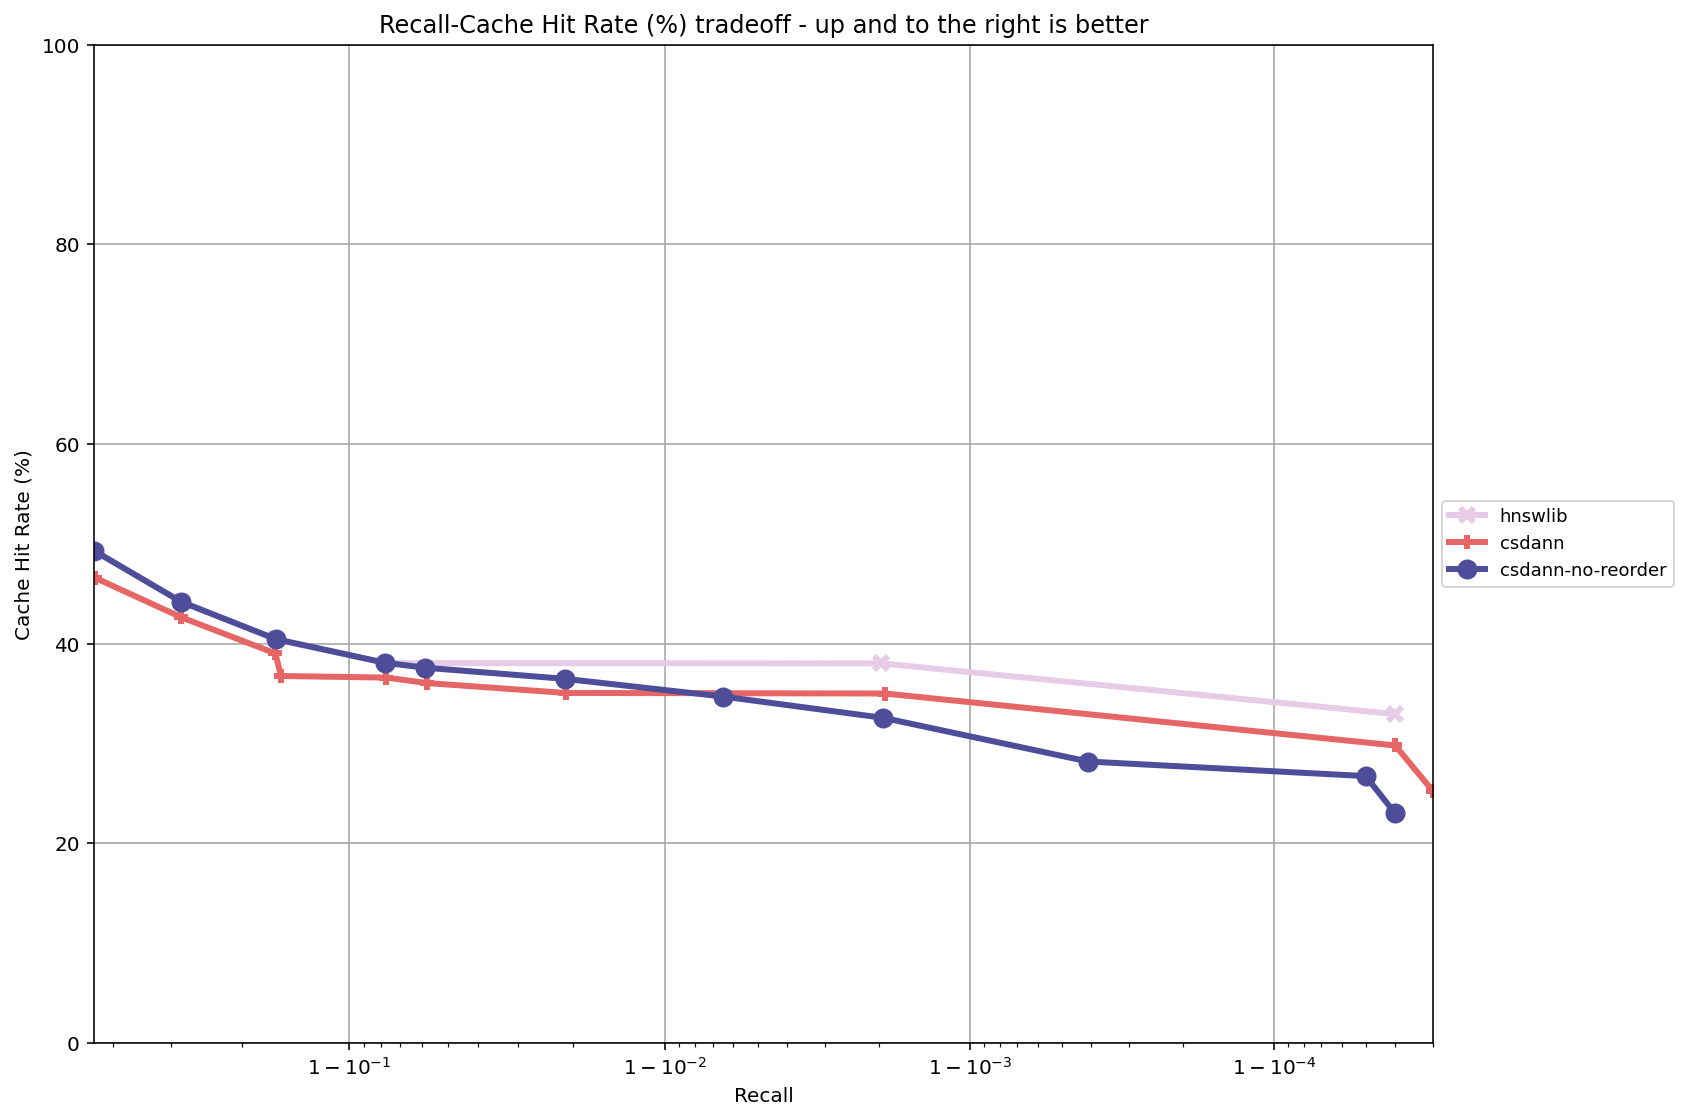
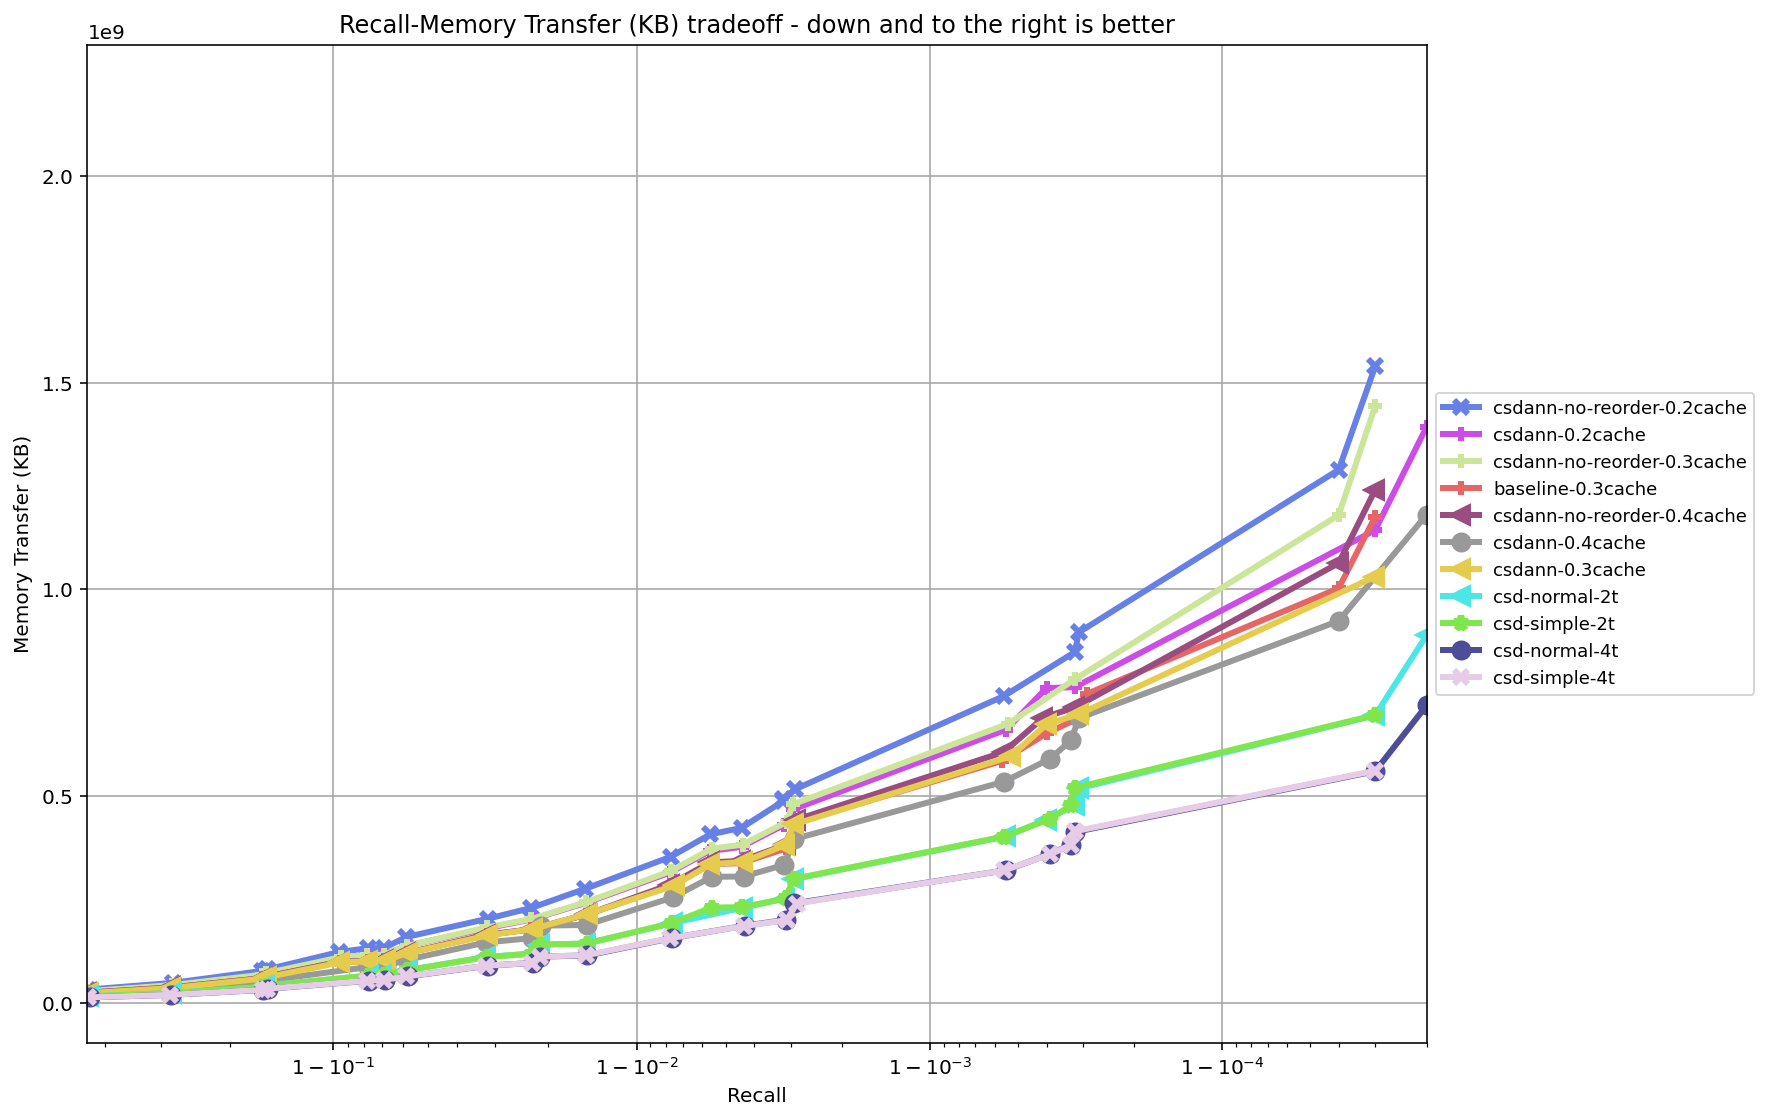
fix rename algo

diff --git a/rename_algorithm_in_hdf5.py b/rename_algorithm_in_hdf5.py
@@ -3,26 +3,29 @@
 Script to rename algorithm names stored in HDF5 result files.
 
 This script traverses all HDF5 files in a specified directory and modifies
-the 'algo' attribute stored in each file. It can also optionally rename
-the directory structure to match the new algorithm name.
+the 'algo' attribute stored in each file to a new name.
 
 Usage:
-    python rename_algorithm_in_hdf5.py --dir /path/to/results/dataset --old-name hnswlib --new-name hnsw_baseline [--rename-dirs]
+    # Rename all HDF5 files to a single name:
+    python rename_algorithm_in_hdf5.py --dir /path/to/results/dataset --new-name hnsw_baseline
 
-Example:
+    # Rename each subdirectory's files to its subdirectory name:
+    python rename_algorithm_in_hdf5.py --dir /path/to/results/dataset --use-dir-name
+
+Examples:
     python rename_algorithm_in_hdf5.py \
         --dir results/mnist-784-euclidean/10 \
-        --old-name hnswlib \
-        --new-name hnsw_baseline \
-        --rename-dirs
+        --new-name hnsw_baseline
+
+    python rename_algorithm_in_hdf5.py \
+        --dir results/sift-128-euclidean/10 \
+        --use-dir-name
 """
 
 import argparse
 import h5py
 import os
-import shutil
-from pathlib import Path
-from typing import Tuple, List
+from typing import List
 
 
 def find_hdf5_files(directory: str) -> List[str]:
@@ -40,6 +43,28 @@ def find_hdf5_files(directory: str) -> List[str]:
             if file.endswith('.hdf5'):
                 hdf5_files.append(os.path.join(root, file))
     return hdf5_files
+
+
+def find_hdf5_files_by_subdir(directory: str) -> dict:
+    """Find HDF5 files grouped by immediate subdirectory.
+
+    Args:
+        directory: Root directory containing subdirectories with HDF5 files
+
+    Returns:
+        Dict mapping subdirectory name to list of HDF5 file paths
+    """
+    result = {}
+    for item in os.listdir(directory):
+        item_path = os.path.join(directory, item)
+        if os.path.isdir(item_path):
+            hdf5_files = []
+            for file in os.listdir(item_path):
+                if file.endswith('.hdf5'):
+                    hdf5_files.append(os.path.join(item_path, file))
+            if hdf5_files:
+                result[item] = hdf5_files
+    return result
 
 
 def get_current_algo_name(hdf5_file: str) -> str:
@@ -80,67 +105,21 @@ def update_algo_name(hdf5_file: str, new_name: str) -> bool:
         return False
 
 
-def rename_directory(old_path: str, new_path: str) -> bool:
-    """Rename a directory.
-
-    Args:
-        old_path: Current directory path
-        new_path: New directory path
-
-    Returns:
-        True if successful, False otherwise
-    """
-    try:
-        # Create parent directory if it doesn't exist
-        os.makedirs(os.path.dirname(new_path), exist_ok=True)
-
-        # Move the directory
-        shutil.move(old_path, new_path)
-        print(f"  Renamed directory: {old_path} -> {new_path}")
-        return True
-    except Exception as e:
-        print(f"  Error renaming directory {old_path}: {e}")
-        return False
-
-
-def verify_changes(hdf5_files: List[str], new_name: str) -> Tuple[int, int]:
-    """Verify that all files were updated correctly.
-
-    Args:
-        hdf5_files: List of HDF5 file paths
-        new_name: Expected algorithm name
-
-    Returns:
-        Tuple of (success_count, failure_count)
-    """
-    success = 0
-    failure = 0
-
-    for hdf5_file in hdf5_files:
-        current = get_current_algo_name(hdf5_file)
-        if current == new_name:
-            success += 1
-        else:
-            print(f"  WARNING: {hdf5_file} still has algo={current}")
-            failure += 1
-
-    return success, failure
-
-
 def main():
     parser = argparse.ArgumentParser(
         description='Rename algorithm names in HDF5 result files',
         formatter_class=argparse.RawDescriptionHelpFormatter,
         epilog="""
 Examples:
-  # Update algorithm name in HDF5 files without renaming directories
-  python rename_algorithm_in_hdf5.py --dir results/mnist-784-euclidean/10 --old-name hnswlib --new-name hnsw_baseline
+  # Update all HDF5 files to a single algorithm name
+  python rename_algorithm_in_hdf5.py --dir results/mnist-784-euclidean/10 --new-name hnsw_baseline
 
-  # Update algorithm name and rename directories to match
-  python rename_algorithm_in_hdf5.py --dir results/mnist-784-euclidean/10 --old-name hnswlib --new-name hnsw_baseline --rename-dirs
+  # Rename each subdirectory's files to use the subdirectory name
+  python rename_algorithm_in_hdf5.py --dir results/sift-128-euclidean/10 --use-dir-name
 
   # Dry run to see what would be changed
-  python rename_algorithm_in_hdf5.py --dir results/mnist-784-euclidean/10 --old-name hnswlib --new-name hnsw_baseline --dry-run
+  python rename_algorithm_in_hdf5.py --dir results/mnist-784-euclidean/10 --new-name hnsw_baseline --dry-run
+  python rename_algorithm_in_hdf5.py --dir results/sift-128-euclidean/10 --use-dir-name --dry-run
         """
     )
 
@@ -151,21 +130,14 @@ Examples:
     )
 
     parser.add_argument(
-        '--old-name',
-        required=True,
-        help='Current algorithm name to replace (e.g., hnswlib)'
-    )
-
-    parser.add_argument(
         '--new-name',
-        required=True,
-        help='New algorithm name (e.g., hnsw_baseline)'
+        help='New algorithm name (e.g., hnsw_baseline). Required unless --use-dir-name is specified.'
     )
 
     parser.add_argument(
-        '--rename-dirs',
+        '--use-dir-name',
         action='store_true',
-        help='Also rename algorithm directories to match the new name'
+        help='Use the subdirectory name as the new algorithm name for each file'
     )
 
     parser.add_argument(
@@ -174,120 +146,98 @@ Examples:
         help='Show what would be changed without making actual changes'
     )
 
-    parser.add_argument(
-        '--verify',
-        action='store_true',
-        help='Verify that all changes were applied correctly'
-    )
-
     args = parser.parse_args()
+
+    # Validate arguments
+    if not args.use_dir_name and not args.new_name:
+        parser.error("Either --new-name or --use-dir-name must be specified")
+
+    if args.use_dir_name and args.new_name:
+        parser.error("Cannot specify both --new-name and --use-dir-name")
 
     # Check if directory exists
     if not os.path.isdir(args.dir):
         print(f"Error: Directory {args.dir} does not exist")
         return 1
 
-    # Find all HDF5 files
-    print(f"\nSearching for HDF5 files in {args.dir}...")
-    hdf5_files = find_hdf5_files(args.dir)
+    if args.use_dir_name:
+        # Mode: rename based on subdirectory name
+        print(f"\nSearching for HDF5 files in subdirectories of {args.dir}...")
+        files_by_subdir = find_hdf5_files_by_subdir(args.dir)
 
-    if not hdf5_files:
-        print("No HDF5 files found.")
+        if not files_by_subdir:
+            print("No HDF5 files found in subdirectories.")
+            return 0
+
+        total_files = sum(len(files) for files in files_by_subdir.values())
+        print(f"Found {total_files} HDF5 files in {len(files_by_subdir)} subdirectories\n")
+
+        # Show current state
+        print("Current algorithm names:")
+        for subdir, files in sorted(files_by_subdir.items()):
+            current_algo = get_current_algo_name(files[0]) if files else None
+            print(f"  {subdir}/ ({len(files)} files): {current_algo} -> {subdir}")
+
+        if args.dry_run:
+            print("\n[Dry run mode - no changes were made]")
+            return 0
+
+        # Perform the updates
+        print(f"\nUpdating algorithm names to subdirectory names...")
+        success_count = 0
+        for subdir, files in sorted(files_by_subdir.items()):
+            print(f"\nProcessing {subdir}/ ({len(files)} files):")
+            for hdf5_file in files:
+                if update_algo_name(hdf5_file, subdir):
+                    success_count += 1
+
+        print(f"\nSuccessfully updated {success_count}/{total_files} files")
+        print("\nDone!")
         return 0
+    else:
+        # Mode: rename all to a single new name (original behavior)
+        print(f"\nSearching for HDF5 files in {args.dir}...")
+        hdf5_files = find_hdf5_files(args.dir)
 
-    print(f"Found {len(hdf5_files)} HDF5 files\n")
+        if not hdf5_files:
+            print("No HDF5 files found.")
+            return 0
 
-    # Show current state
-    print("Current algorithm names in files:")
-    algo_counts = {}
-    for hdf5_file in hdf5_files:
-        current_algo = get_current_algo_name(hdf5_file)
-        if current_algo:
-            algo_counts[current_algo] = algo_counts.get(current_algo, 0) + 1
+        print(f"Found {len(hdf5_files)} HDF5 files\n")
 
-    for algo, count in sorted(algo_counts.items()):
-        marker = " <-- TARGET" if algo == args.old_name else ""
-        print(f"  {algo}: {count} files{marker}")
+        # Show current state
+        print("Current algorithm names in files:")
+        algo_counts = {}
+        for hdf5_file in hdf5_files:
+            current_algo = get_current_algo_name(hdf5_file)
+            if current_algo:
+                algo_counts[current_algo] = algo_counts.get(current_algo, 0) + 1
 
-    # Filter files with the old algorithm name
-    files_to_update = []
-    for hdf5_file in hdf5_files:
-        current_algo = get_current_algo_name(hdf5_file)
-        if current_algo == args.old_name:
-            files_to_update.append(hdf5_file)
+        for algo, count in sorted(algo_counts.items()):
+            print(f"  {algo}: {count} files")
 
-    if not files_to_update:
-        print(f"\nNo files found with algorithm name '{args.old_name}'")
+        print(f"\n{len(hdf5_files)} files will be updated to '{args.new_name}'")
+
+        # Show files that would be changed
+        if args.dry_run:
+            print("\nFiles that would be updated:")
+            for hdf5_file in hdf5_files:
+                current_algo = get_current_algo_name(hdf5_file)
+                print(f"  {hdf5_file}: {current_algo} -> {args.new_name}")
+            print("\n[Dry run mode - no changes were made]")
+            return 0
+
+        # Perform the updates
+        print(f"\nUpdating all algorithm names to '{args.new_name}'...")
+
+        success_count = 0
+        for hdf5_file in hdf5_files:
+            if update_algo_name(hdf5_file, args.new_name):
+                success_count += 1
+
+        print(f"\nSuccessfully updated {success_count}/{len(hdf5_files)} files")
+        print("\nDone!")
         return 0
-
-    print(f"\n{len(files_to_update)} files need to be updated")
-
-    # Show files that would be changed
-    if args.dry_run:
-        print("\nFiles that would be updated:")
-        for hdf5_file in files_to_update:
-            print(f"  {hdf5_file}")
-
-        if args.rename_dirs:
-            # Find directories that would be renamed
-            dirs_to_rename = set()
-            for hdf5_file in files_to_update:
-                dir_path = os.path.dirname(hdf5_file)
-                if os.path.basename(dir_path) == args.old_name:
-                    parent_dir = os.path.dirname(dir_path)
-                    new_dir_path = os.path.join(parent_dir, args.new_name)
-                    dirs_to_rename.add((dir_path, new_dir_path))
-
-            if dirs_to_rename:
-                print("\nDirectories that would be renamed:")
-                for old_path, new_path in sorted(dirs_to_rename):
-                    print(f"  {old_path} -> {new_path}")
-
-        print("\n[Dry run mode - no changes were made]")
-        return 0
-
-    # Perform the updates
-    print(f"\nUpdating algorithm name from '{args.old_name}' to '{args.new_name}'...")
-
-    success_count = 0
-    for hdf5_file in files_to_update:
-        if update_algo_name(hdf5_file, args.new_name):
-            success_count += 1
-
-    print(f"\nSuccessfully updated {success_count}/{len(files_to_update)} files")
-
-    # Rename directories if requested
-    if args.rename_dirs:
-        print(f"\nRenaming directories from '{args.old_name}' to '{args.new_name}'...")
-
-        dirs_to_rename = set()
-        for hdf5_file in files_to_update:
-            dir_path = os.path.dirname(hdf5_file)
-            if os.path.basename(dir_path) == args.old_name:
-                parent_dir = os.path.dirname(dir_path)
-                new_dir_path = os.path.join(parent_dir, args.new_name)
-                dirs_to_rename.add((dir_path, new_dir_path))
-
-        if dirs_to_rename:
-            for old_path, new_path in sorted(dirs_to_rename):
-                print(f"  {old_path} -> {new_path}")
-                if not rename_directory(old_path, new_path):
-                    print(f"  WARNING: Failed to rename {old_path}")
-        else:
-            print("  No matching directories found")
-
-    # Verify changes if requested
-    if args.verify:
-        print(f"\nVerifying changes...")
-        success, failure = verify_changes(files_to_update, args.new_name)
-        print(f"Verification complete: {success} successful, {failure} failed")
-
-        if failure > 0:
-            print("\nSome files were not updated correctly. Please check the output above.")
-            return 1
-
-    print("\nDone!")
-    return 0
 
 
 if __name__ == '__main__':

diff --git a/ann_benchmarks/algorithms/hnswlib/module.py b/ann_benchmarks/algorithms/hnswlib/module.py
@@ -27,7 +27,7 @@ class HnswLib(BaseANN):
         index_path = os.path.join(SIM_SSD_DIR_CONTAINER, "hnswlib", "index")
         os.makedirs(os.path.join(SIM_SSD_DIR_CONTAINER, "hnswlib"), exist_ok=True)
         self.p.save_index(index_path)
-        self.p.load_index(index_path, cache_size=175 * 1024 * 1024, thread_num=6)  # 75(0.2), 125(0.3), 175(0.4)
+        self.p.load_index(index_path, cache_size=175 * 1024 * 1024, thread_num=6, csd_thread_num = 4)  # 75(0.2), 125(0.3), 175(0.4)
 
     def set_query_arguments(self, ef):
         self.p.reset_metrics_counter()
